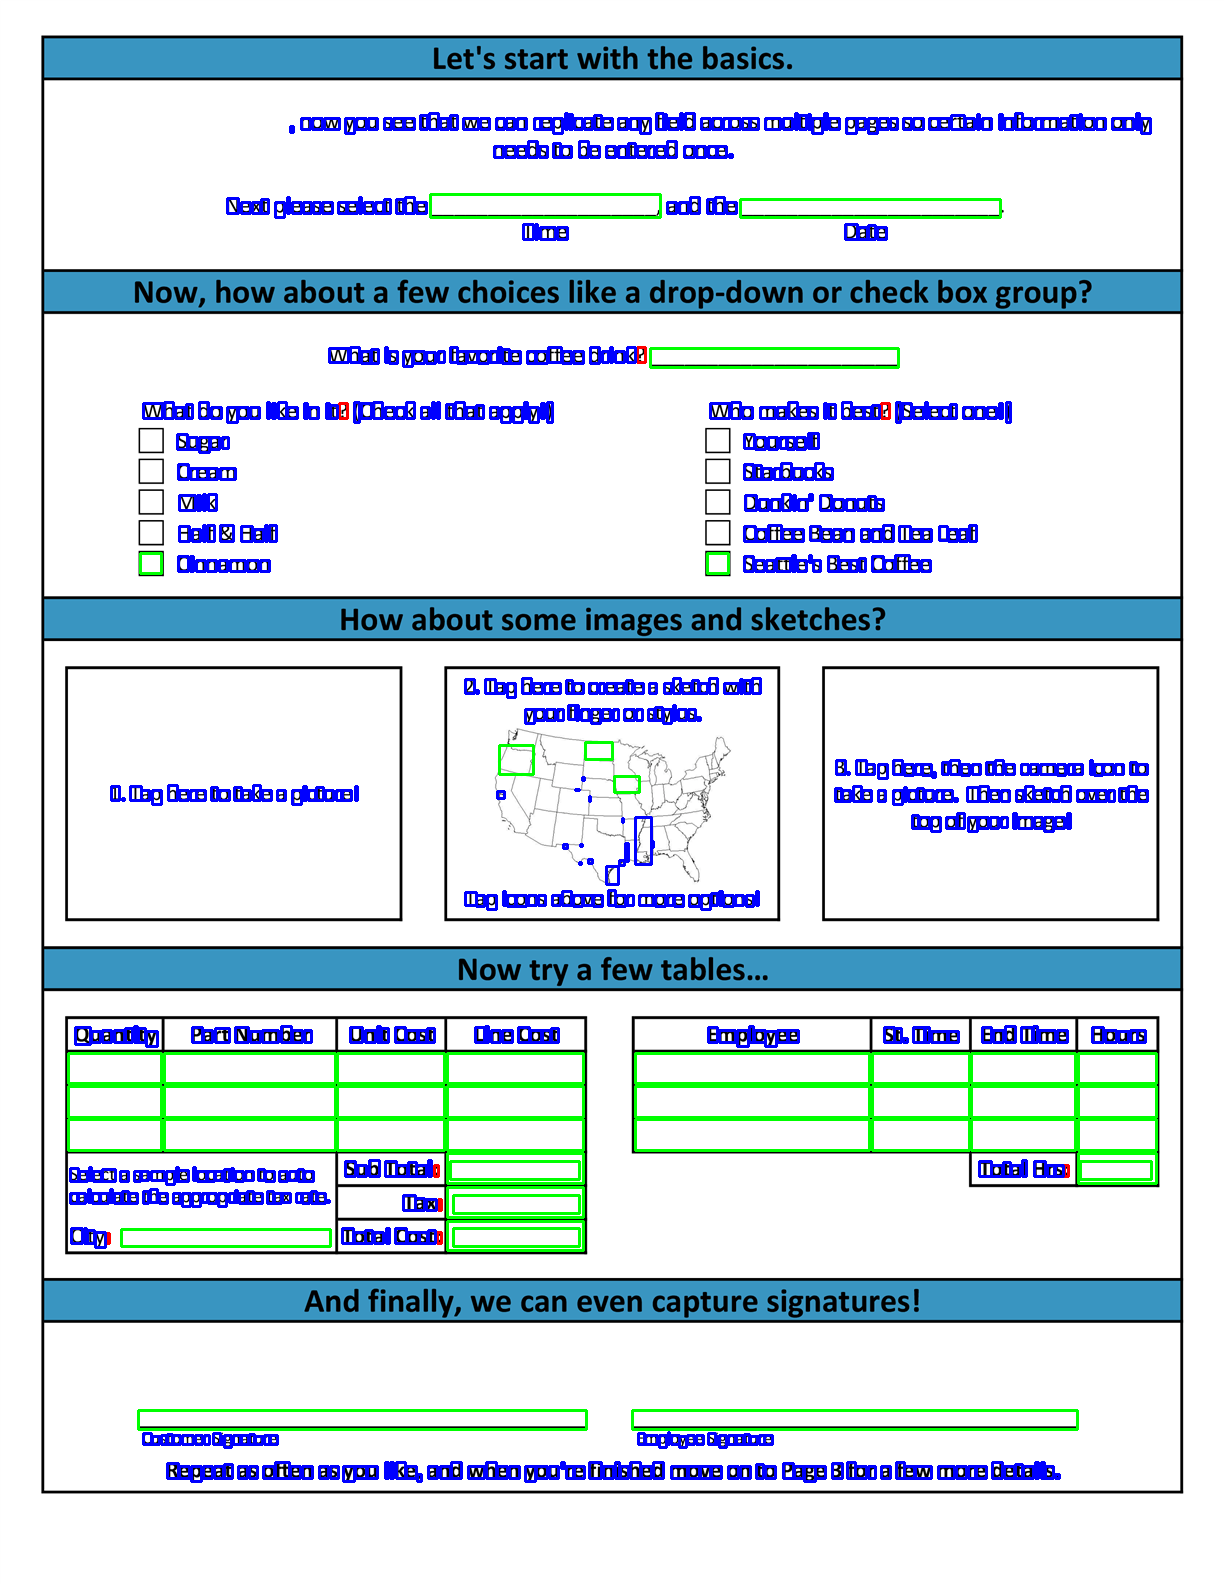
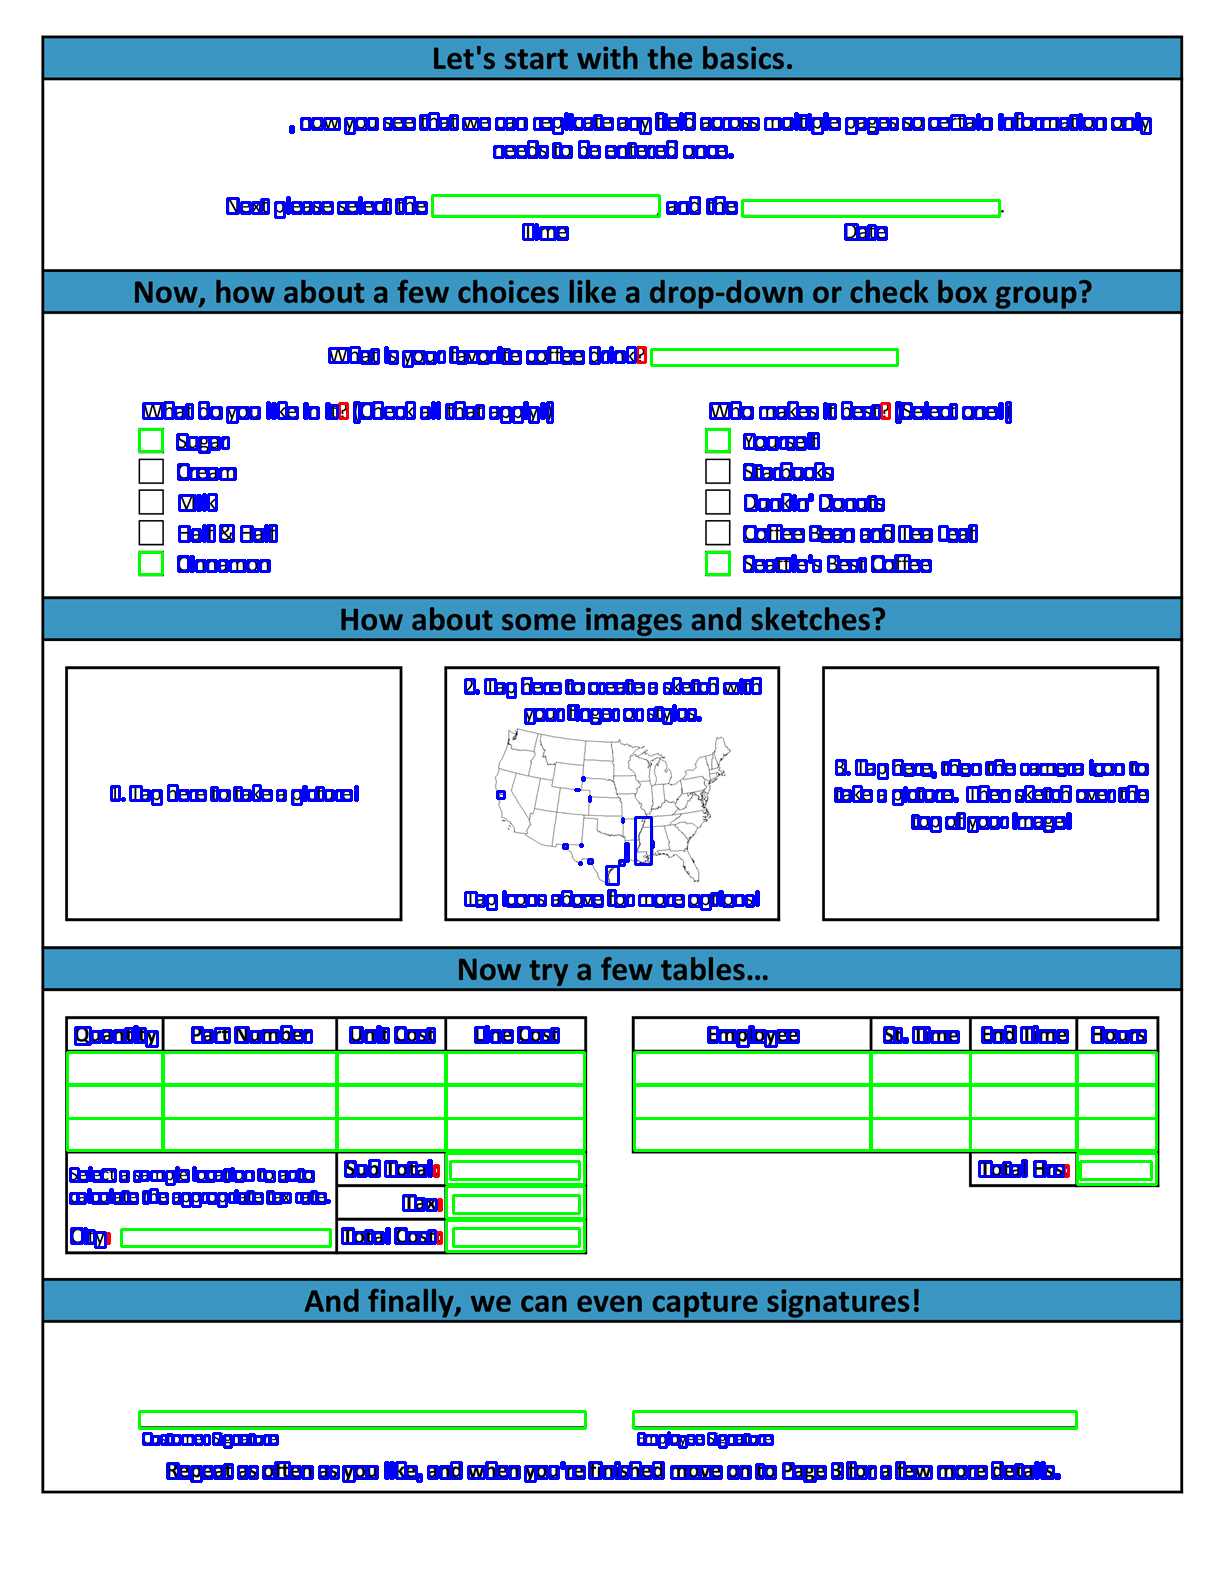
fixed non-squares in old images and starated using OTSU

diff --git a/FormReader/FormReader.py b/FormReader/FormReader.py
@@ -29,8 +29,8 @@ class Image_Data:
         self.imgray = cv2.cvtColor(self.wordless_img, cv2.COLOR_BGR2GRAY)
 
     def extract_contours(self):
-        # ret, thresh = cv2.threshold(self.imgray, 127, 255, 0)
-        thresh = cv2.adaptiveThreshold(self.imgray, 255, cv2.ADAPTIVE_THRESH_GAUSSIAN_C, cv2.THRESH_BINARY, 11, 2)
+        ret, thresh = cv2.threshold(self.imgray, 0, 255, cv2.THRESH_BINARY_INV | cv2.THRESH_OTSU)
+        # thresh = cv2.adaptiveThreshold(self.imgray, 255, cv2.ADAPTIVE_THRESH_GAUSSIAN_C, cv2.THRESH_BINARY, 11, 2)
         self.image, self.contours, self.hierarchy = cv2.findContours(thresh, cv2.RETR_TREE, cv2.CHAIN_APPROX_SIMPLE)
         self.real_contours = np.array(self.contours)[self.hierarchy[0][:, 2] == -1]
         self.real_contours = self.add_special_contours()
